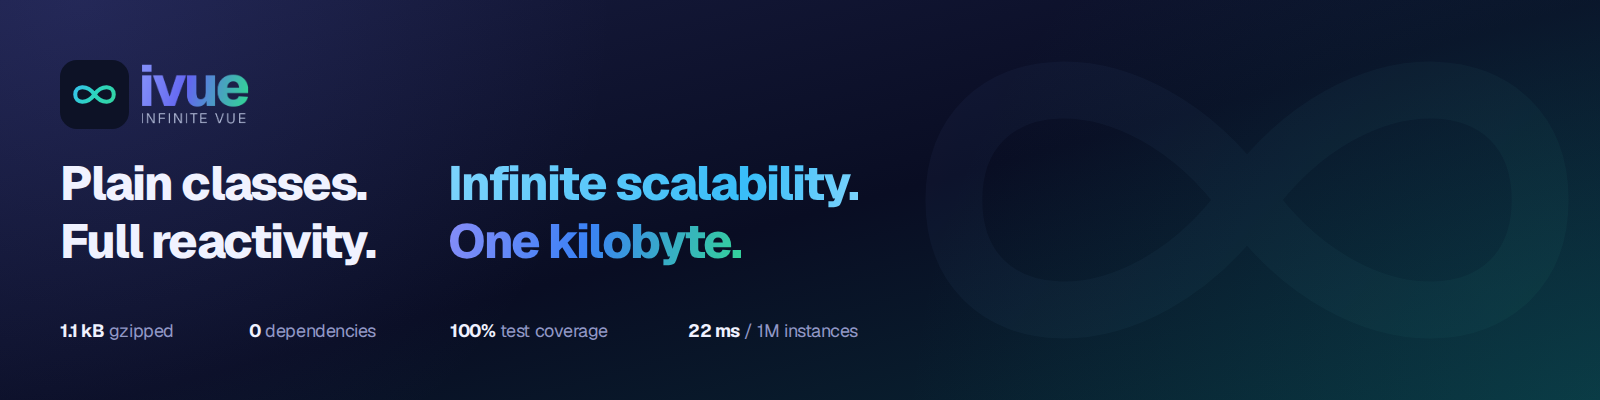
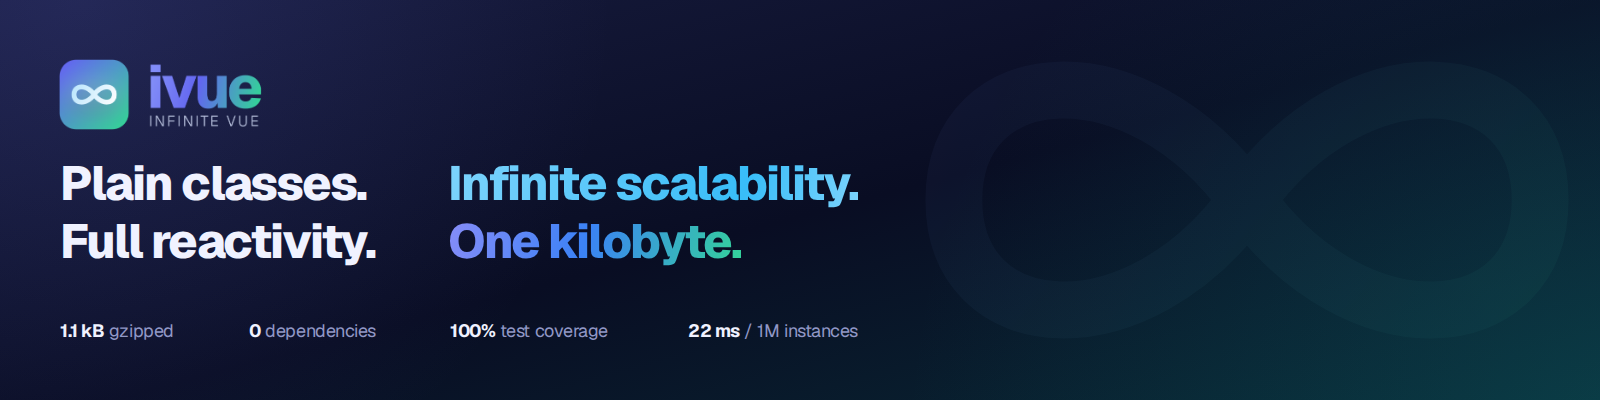
google form header: the mark comes from the lockup, not a hand-built copy
The template assembled its own tile (a #0d1226 square plus an inline teal-gradient infinity) beside a cropped slice of brand-lockup-dark.png, so the Aug 30 brand change updated the wordmark and left the tile on the old mark. Now one <img> from the single source of truth, the same way og-image.html does it — future brand changes propagate on re-render.

Geometry preserved: the PNG is 993x384 with its 322px tile at (31,31), so 212.8px wide puts the tile back at 69px and (60,60). Verified against the previous render: only the tile changed; headline, metrics and watermark are unmoved.

Changed region(s): [[0.0312, 0.15, 0.1875, 0.33]]

diff --git a/docs_v2/scripts/google-form-header.html b/docs_v2/scripts/google-form-header.html
@@ -60,46 +60,23 @@
         pointer-events: none;
       }
 
+      /* ONE image from the single source of truth — the same move
+         og-image.html makes. This used to hand-build the mark (a
+         #0d1226 tile plus an inline teal infinity) beside a cropped
+         slice of the wordmark, so a brand change updated the wordmark
+         and left the tile on the old mark.
+         Geometry preserved: the PNG is 993x384 with its 322px tile at
+         (31,31), so 212.8px wide renders the tile at 69px and the
+         6.64px transparent inset puts its visible corner back at
+         (60,60) — where the hand-built tile sat. */
       .lockup {
         position: absolute;
         z-index: 1;
-        top: 54px;
-        left: 53px;
-        width: 205px;
-        height: 79px;
-      }
-
-      .lockup-mark {
-        position: absolute;
-        top: 6px;
-        left: 7px;
-        width: 69px;
-        height: 69px;
-        border-radius: 17px;
-        background: #0d1226;
-      }
-
-      .lockup-mark svg {
+        top: 53.36px;
+        left: 53.36px;
+        width: 212.8px;
+        height: auto;
         display: block;
-        width: 100%;
-        height: 100%;
-      }
-
-      .lockup-wordmark {
-        position: absolute;
-        top: 0;
-        left: 89px;
-        width: 116px;
-        height: 79px;
-        overflow: hidden;
-      }
-
-      .lockup-wordmark img {
-        position: absolute;
-        top: 0;
-        left: -94px;
-        width: 205px;
-        max-width: none;
       }
 
       .headline {
@@ -212,36 +189,11 @@
         </defs>
       </svg>
 
-      <div class="lockup" role="img" aria-label="ivue — Infinite Vue">
-        <span class="lockup-mark">
-          <svg viewBox="0 0 48 48" fill="none" aria-hidden="true">
-            <path
-              d="M10.6 24 C 10.6 17.6, 19 17, 24 24 C 29 31, 37.4 30.4, 37.4 24 C 37.4 17.6, 29 17, 24 24 C 19 31, 10.6 30.4, 10.6 24 Z"
-              stroke="url(#lockup-mark-gradient)"
-              stroke-width="2.8"
-              stroke-linecap="round"
-              stroke-linejoin="round"
-            />
-            <defs>
-              <linearGradient
-                id="lockup-mark-gradient"
-                x1="8"
-                y1="14"
-                x2="40"
-                y2="34"
-                gradientUnits="userSpaceOnUse"
-              >
-                <stop stop-color="#38bdf8" />
-                <stop offset="0.5" stop-color="#2dd4bf" />
-                <stop offset="1" stop-color="#34d399" />
-              </linearGradient>
-            </defs>
-          </svg>
-        </span>
-        <span class="lockup-wordmark" aria-hidden="true">
-          <img src="../public/brand-lockup-dark.png" alt="" />
-        </span>
-      </div>
+      <img
+        class="lockup"
+        src="../public/brand-lockup-dark.png"
+        alt="ivue — Infinite Vue"
+      />
 
       <h1 class="headline">
         <span>
